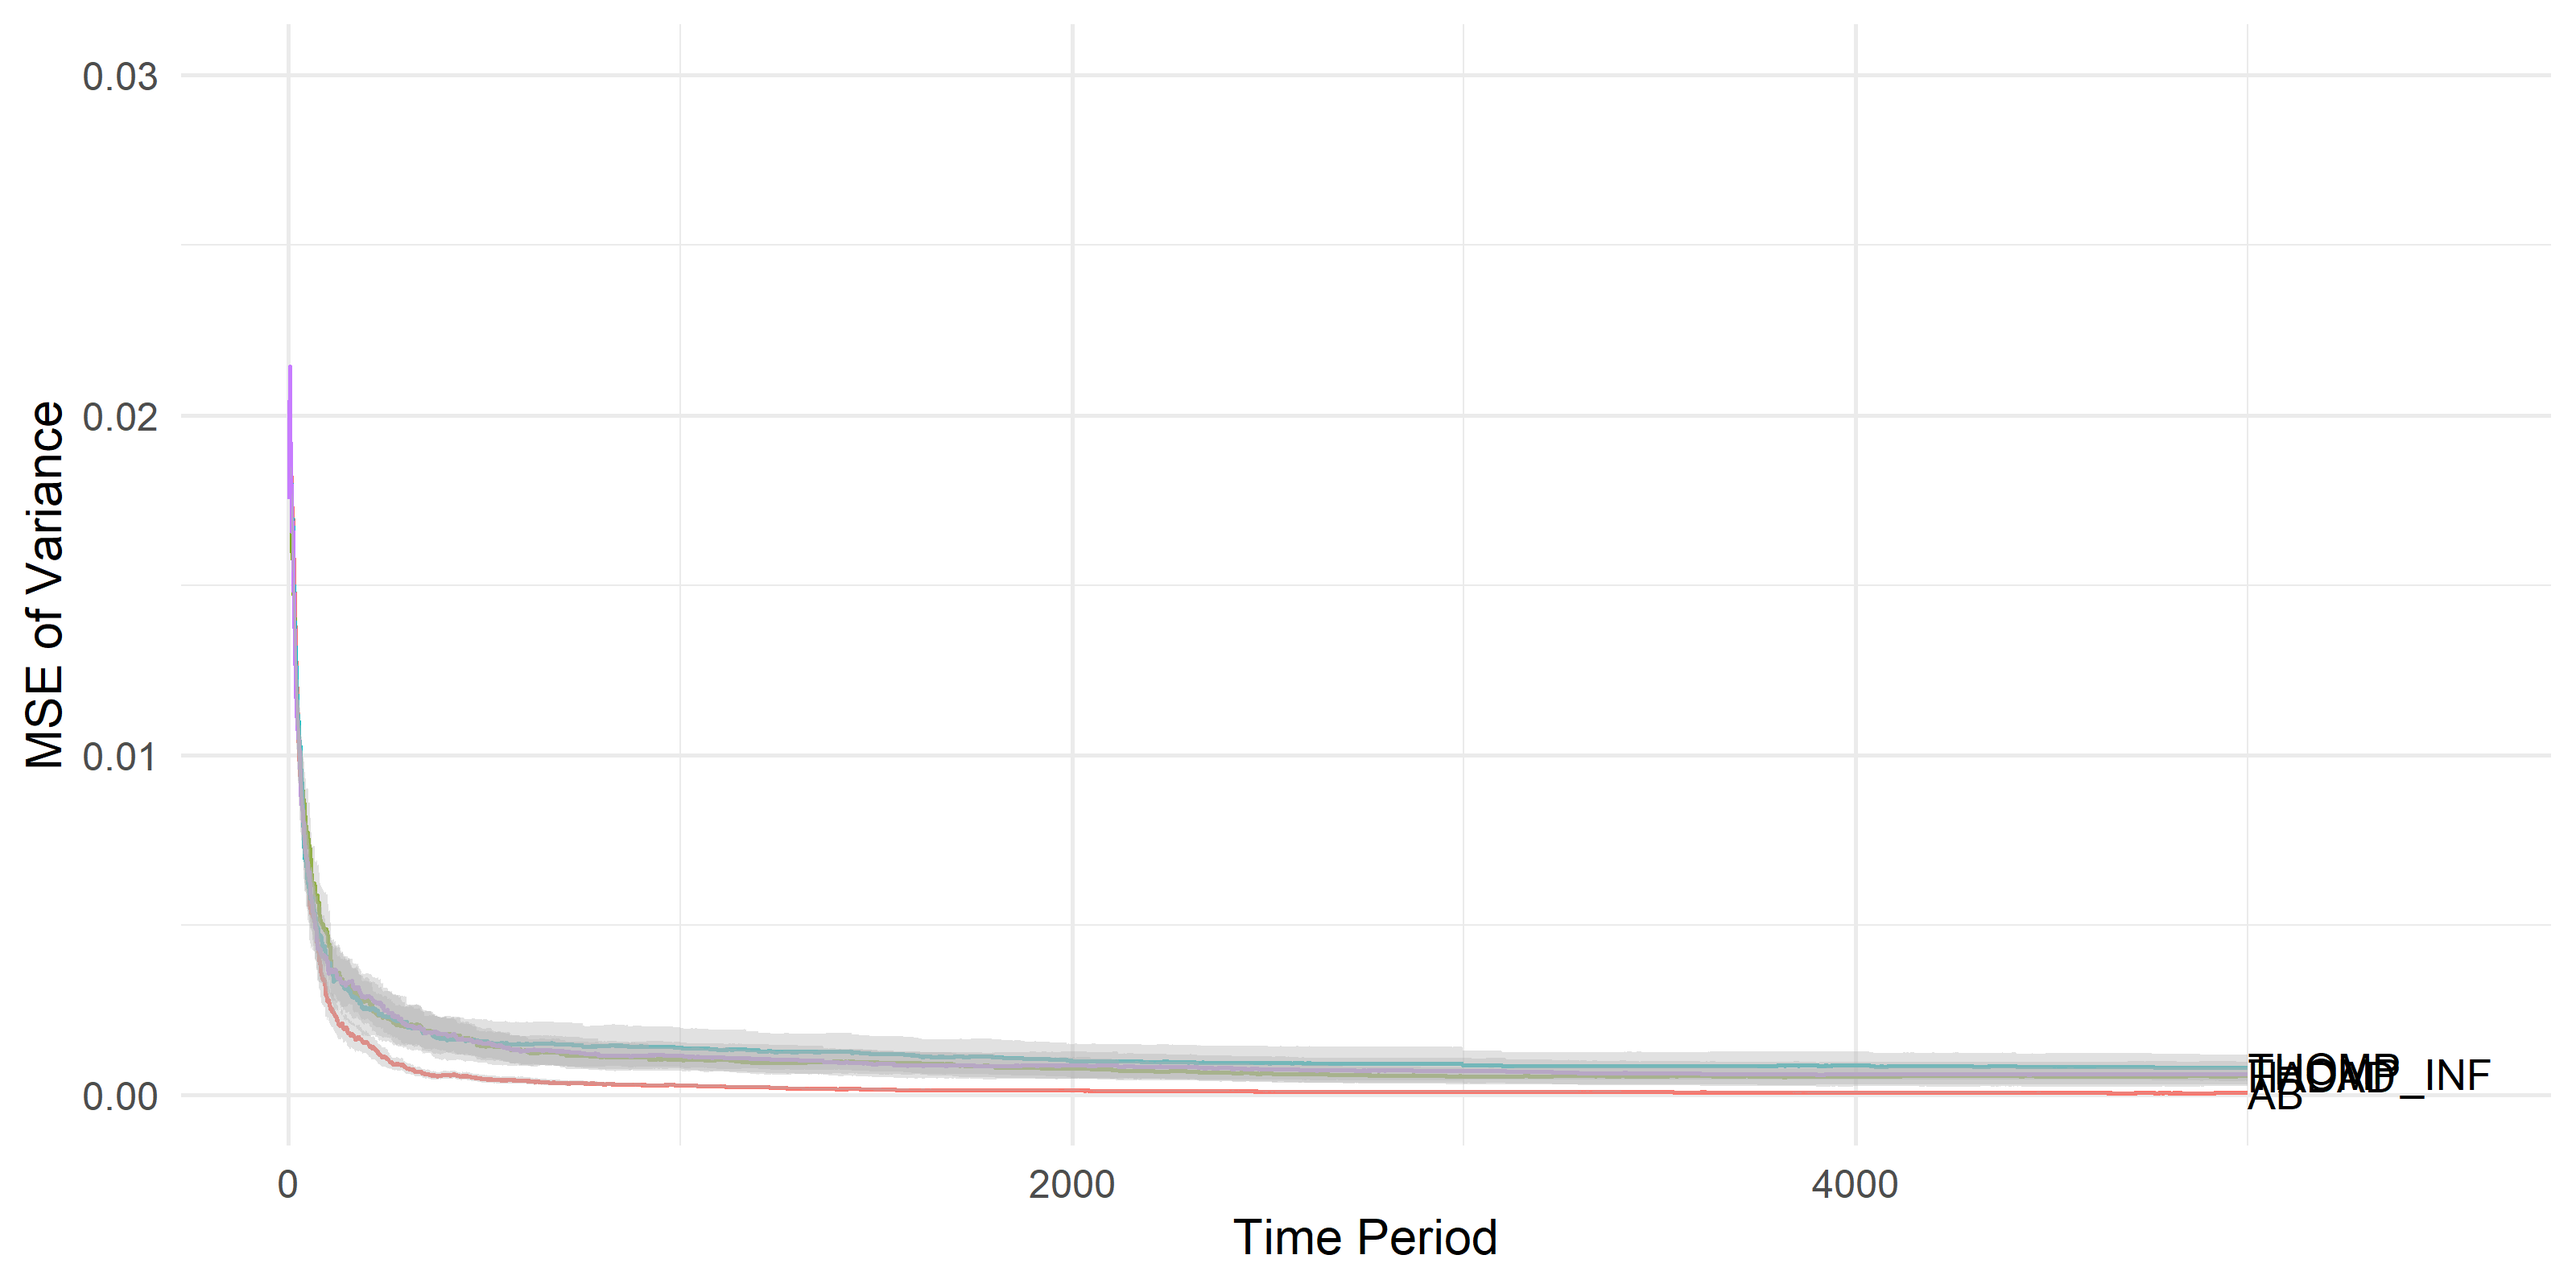
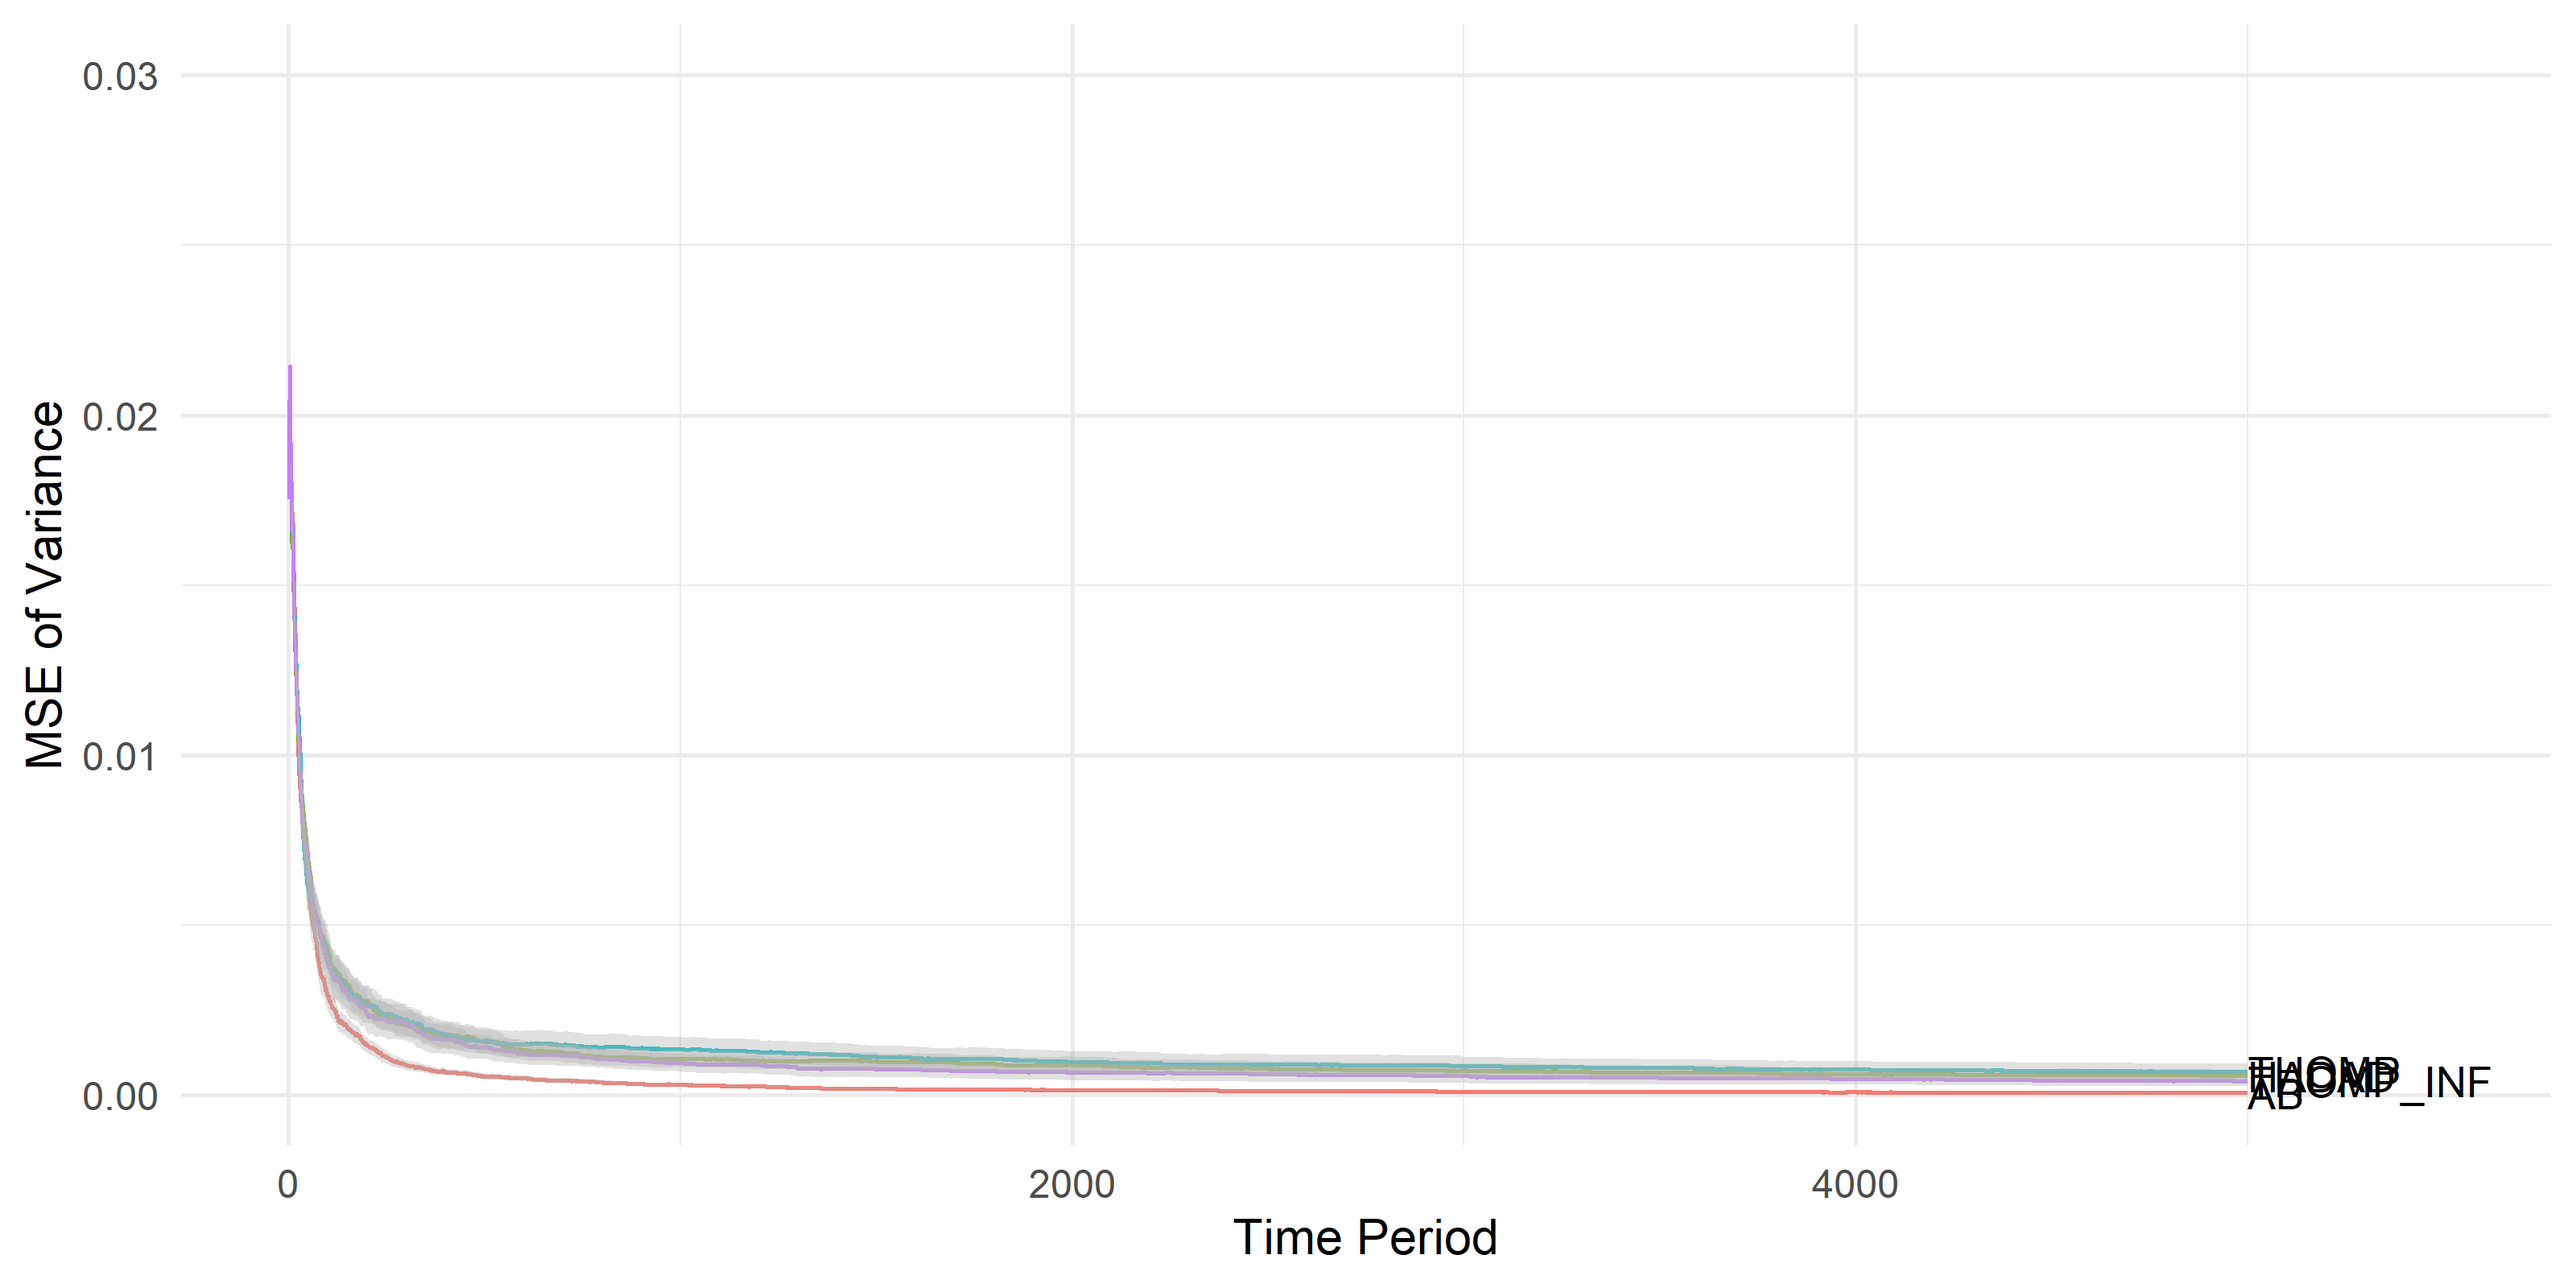
adding xi analysis code

Changed region(s): [[0.125, 0.7188, 0.9688, 0.8438], [0.0938, 0.6562, 0.125, 0.7188]]

diff --git a/run_sim.py b/run_sim.py
@@ -10,10 +10,10 @@ def run_sim(file_path, true_means, true_vars=None, dist_type='Normal', xi=0.05):
 
     estimator_list=['aipw', 'eval_aipw', 'ipw']
 
-    sim = BanditSimulation(num_ite=62, arm_means=true_means,
+    sim = BanditSimulation(num_ite=1, arm_means=true_means,
                            arm_vars=true_vars,
                            eps_inf=0.2,
-                           horizon=20000,
+                           horizon=10000,
                            alg_list=alg_list,
                            estimator_list=None,
                            mse_calc=True,
@@ -30,8 +30,8 @@ if __name__ == '__main__':
     meta_analysis = False
     normal_analysis = False
     regret_order = False
-    xi_analysis = False
-    bernoulli_analysis = True
+    xi_analysis = True
+    bernoulli_analysis = False
     hsn = False
     lsn = False
     zsn = False
@@ -52,7 +52,7 @@ if __name__ == '__main__':
     if bernoulli_analysis:
         true_means = np.array([0.157, 0.178, 0.199, 0.146, 0.129])
         true_vars = true_means*(1-true_means)
-        run_sim('analysis/output/non_agg_bern_62_5000.csv', true_means, true_vars=true_vars, dist_type='Bernoulli')
+        run_sim('analysis/output/non_agg_bern_62_20000.csv', true_means, true_vars=true_vars, dist_type='Bernoulli')
     if lsn:
         true_means = [1, 1.1, 1.2]
         true_vars = [1/3, 1/3, 1/3]
@@ -70,9 +70,9 @@ if __name__ == '__main__':
         true_vars = [2.84, 1.97, 2.62, 1, 2.06]
         a = run_sim('analysis/output/wise_regret_analysis_100.csv', true_means, true_vars=true_vars, dist_type='Normal')
     if xi_analysis:
-        true_means = [0.25, 1.82, 1.48, 2.25, 2]
-        true_vars = [2.84, 1.97, 2.62, 1, 2.06]
-        xi = [0.6, 0.8, 1, 1.2, 1.4]
+        true_means = np.array([0.157, 0.178, 0.199, 0.146, 0.129])
+        true_vars = true_means * (1 - true_means)
+        xi = [0.01, 0.05, 0.1, 0.15, 0.2, 0.3, 0.5, 0.8, 1, 1.2, 1.4]
         for x in xi:
             f_path = 'analysis/output/xi_analysis' + str(x) + '.csv'
-            a = run_sim(f_path, true_means, true_vars=true_vars, dist_type='Normal', xi=x)
+            run_sim(f_path, true_means, true_vars=true_vars, dist_type='Bernoulli', xi=x)
